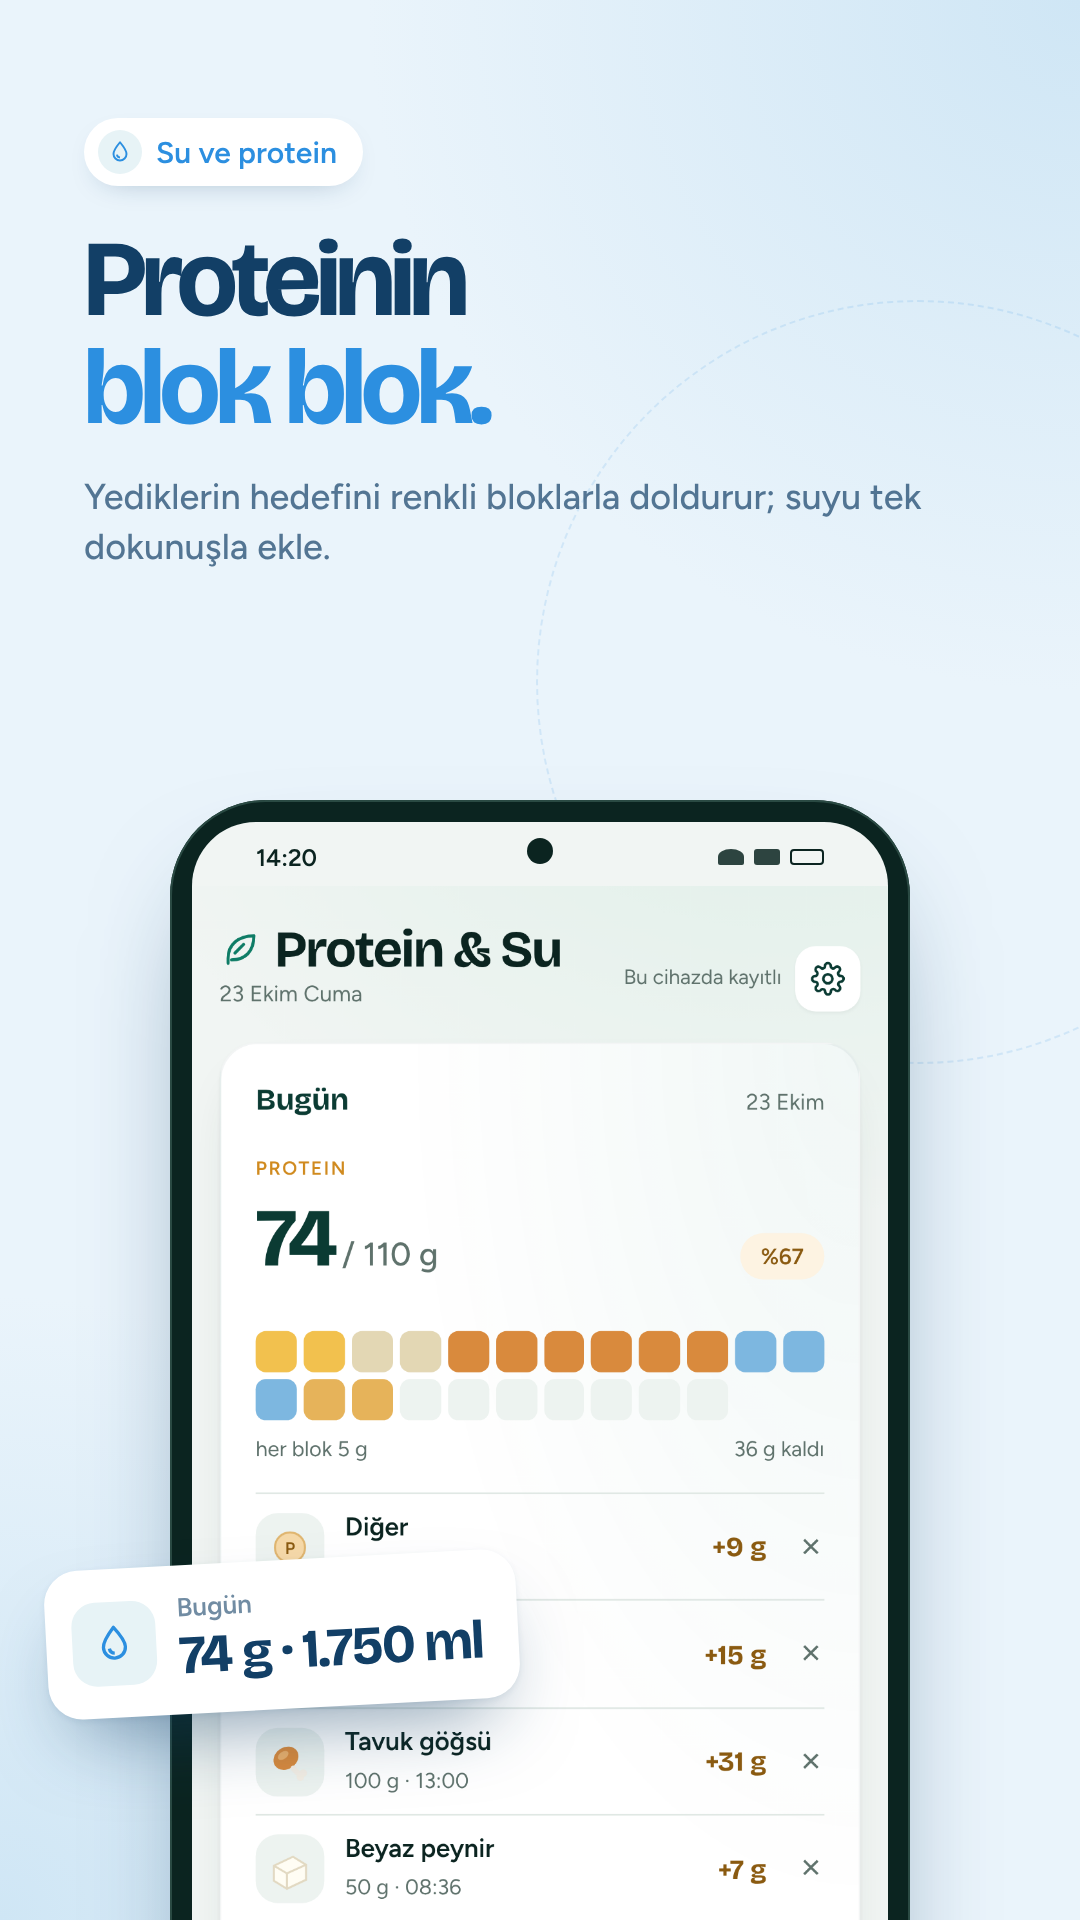
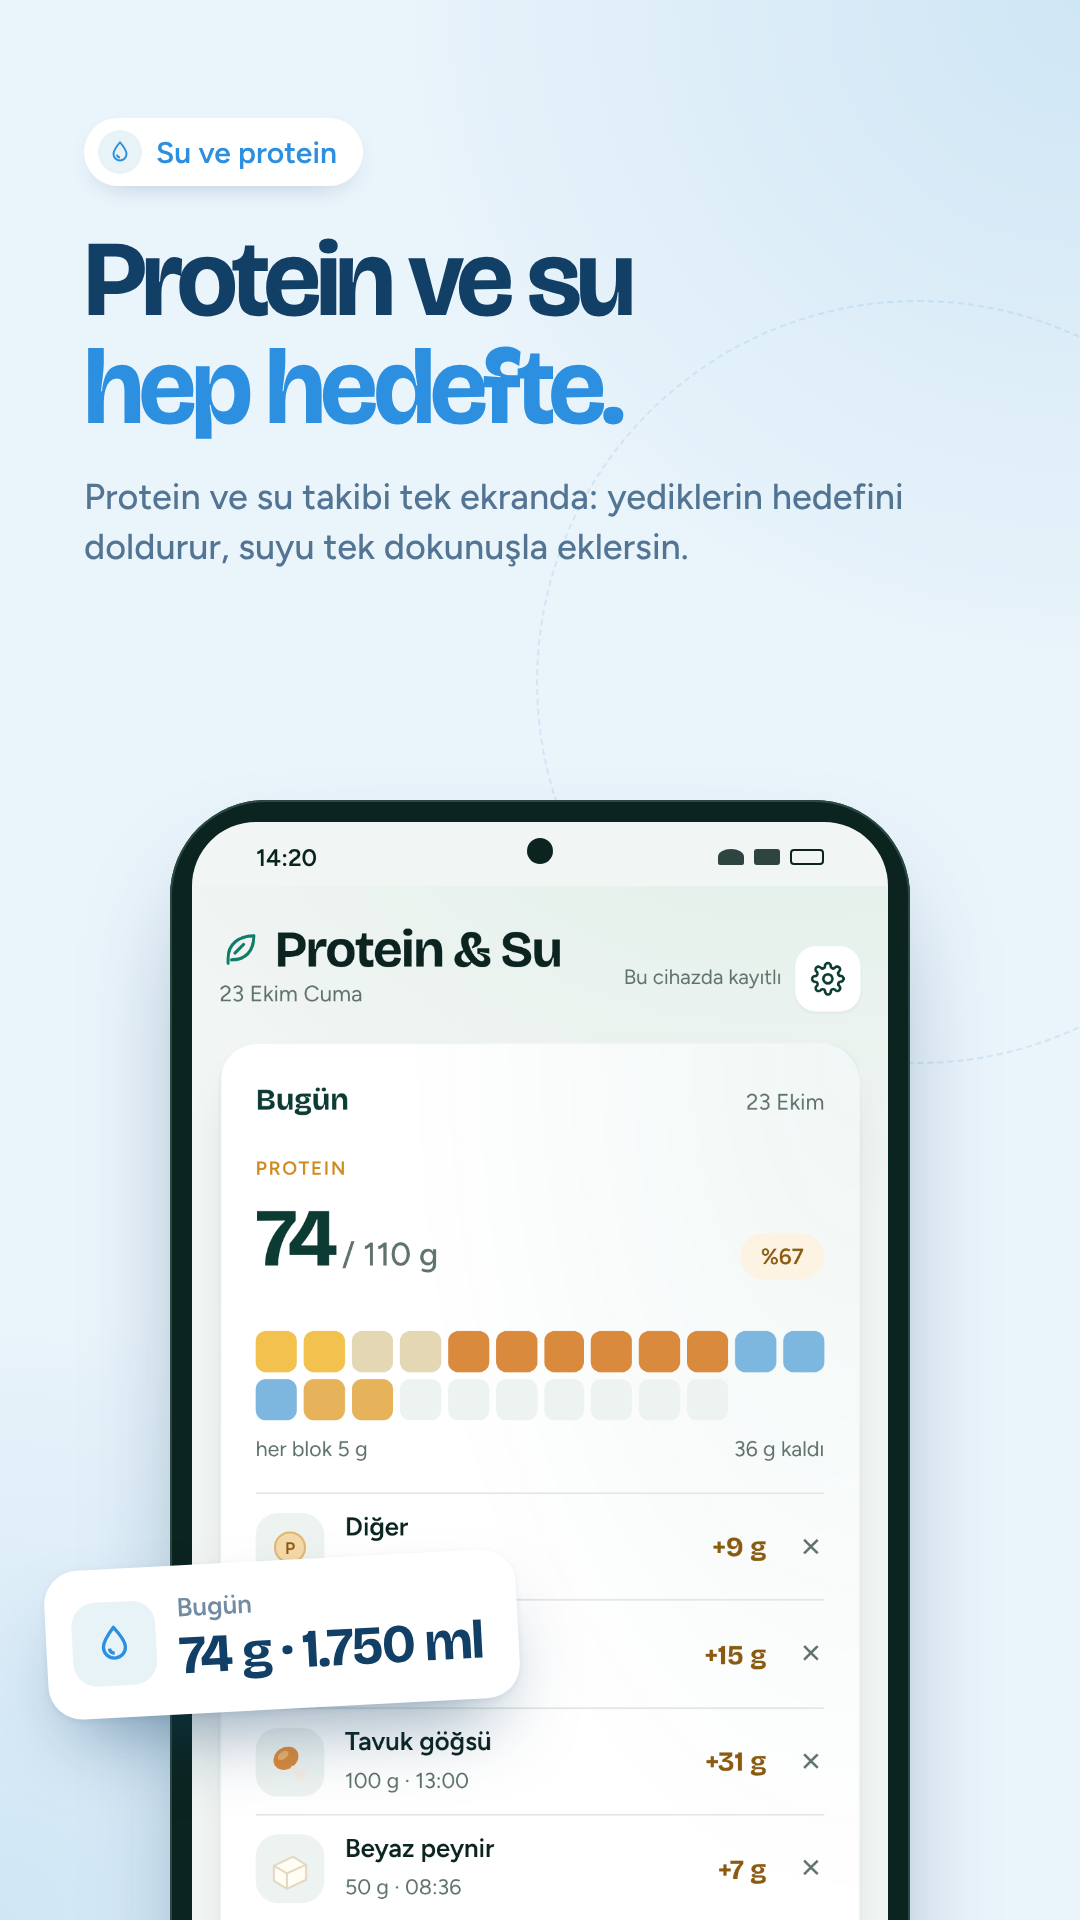
Tanıtım: protein kartı başlığı 'Protein ve su hep hedefte'
Claude-Session: https://claude.ai/code/session_01ERT3WxHgY3bECbR2LgZad1

Changed region(s): [[0.0611, 0.125, 0.8556, 0.3125]]

diff --git a/magaza/kaynak/tanitim-ekranlari.js b/magaza/kaynak/tanitim-ekranlari.js
@@ -38,7 +38,7 @@ const EKRANLAR = [
   { ad: '02-adim', renk: 'adim', ikon: ADIMI, etiket: 'Adım sayar', baslik: ['Her adım', 'sayılır.'], alt: 'Health Connect ile adımların ve akıllı tartın kendiliğinden gelir.', ekran: '10-adimlar.png', kart: ['Bu hafta ortalama', '8.240 adım'], kartYer: 'sag', kartTop: 1690 },
   { ad: '03-igne', renk: 'igne', ikon: ikon('igne'), etiket: 'İğne takibi', baslik: ['Haftanı', 'tanı.'], alt: 'Döngünün hangi evresinde olduğunu ve sıradaki iğneni hep bil.', ekran: '02-dongu.png', kart: ['Bugünkü evre', 'Zirve · 4. gün'], kartYer: 'sol' },
   { ad: '04-rozet', renk: 'rozet', ikon: ROZET, etiket: 'Başarılar', baslik: ['Her eşik', 'bir rozet.'], alt: 'Ara hedeflere ulaştıkça rozet kazan, motivasyonun hep diri kalsın.', ekran: '04-rozetler.png', kart: ['Yeni rozet', '%5 vücut ağırlığı'], kartYer: 'sag' },
-  { ad: '05-protein-su', renk: 'su', ikon: ikon('besin'), etiket: 'Su ve protein', baslik: ['Proteinin', 'blok blok.'], alt: 'Yediklerin hedefini renkli bloklarla doldurur; suyu tek dokunuşla ekle.', ekran: '07-protein-su.png', kart: ['Bugün', '74 g · 1.750 ml'], kartYer: 'sol' },
+  { ad: '05-protein-su', renk: 'su', ikon: ikon('besin'), etiket: 'Su ve protein', baslik: ['Protein ve su', 'hep hedefte.'], alt: 'Protein ve su takibi tek ekranda: yediklerin hedefini doldurur, suyu tek dokunuşla eklersin.', ekran: '07-protein-su.png', kart: ['Bugün', '74 g · 1.750 ml'], kartYer: 'sol' },
   { ad: '06-takviye', renk: 'takviye', ikon: ikon('takviye'), etiket: 'Takviye takibi', baslik: ['Takviyelerin', 'tek dokunuşta.'], alt: 'Sabah, akşam ve gece programını kur; aldıklarını işaretle.', ekran: '08-takviyeler.png', kart: ['Bugün alındı', '2 / 4'], kartYer: 'sag' },
   { ad: '09-yan-etki', renk: 'igne', ikon: NABIZ, etiket: 'Yan etki günlüğü', baslik: ['Yan etkilerini', 'öngör.'], alt: 'Belirtilerini kaydet; iğneden sonraki hangi günlerde yoğunlaştığını gör.', ekran: '11-yan-etkiler.png', kart: ['En yoğun gün', 'İğneden 1 gün sonra'], kartYer: 'sag', kartTop: 1760 },
   { ad: '10-rapor', renk: 'kilo', ikon: RAPOR, etiket: 'Ölçüler ve rapor', baslik: ['Kontrole', 'hazır git.'], alt: 'Ölçülerini kaydet; kilo, doz ve yan etkilerini tek PDF raporla doktoruna göster.', ekran: '13-olculer.png', kart: ['Bel çevresi', '−9 cm'], kartYer: 'sol' },

diff --git a/magaza/kaynak/video/sahne.html b/magaza/kaynak/video/sahne.html
@@ -107,7 +107,7 @@ const S = [
   { d: 4.0, r: 'igne', ic: 'nabiz', et: 'Yan etki günlüğü', h: ['Yan etkilerini', 'öngör.'], sub: 'Belirtilerini kaydet; iğneden sonraki hangi günlerde yoğunlaştığını gör.', img: '11-yan-etkiler.png', call: ['En yoğun gün', 'İğneden 1 gün sonra'], cx: 'sol' },
   { d: 4.0, r: 'kilo', ic: 'rapor', et: 'Ölçüler ve rapor', h: ['Kontrole', 'hazır git.'], sub: 'Ölçülerini kaydet; kilo, doz ve yan etkilerini tek PDF raporla doktoruna göster.', img: '13-olculer.png', call: ['Bel çevresi', -9, ' cm', 0], cx: 'sol' },
   { d: 4.0, r: 'rozet', ic: 'rozet', et: 'Başarılar', h: ['Her eşik', 'bir rozet.'], sub: 'Ara hedeflere ulaştıkça rozet kazan, motivasyonun hep diri kalsın.', img: '04-rozetler.png', call: ['Yeni rozet', '%5 vücut'], cx: 'sol' },
-  { d: 4.0, r: 'su', ic: 'su', et: 'Su ve protein', h: ['Proteinin', 'blok blok.'], sub: 'Yediklerin hedefini renkli bloklarla doldurur; suyu tek dokunuşla ekle.', img: '07-protein-su.png', call: ['Bugün su', 1750, ' ml', 0], cx: 'sol' },
+  { d: 4.0, r: 'su', ic: 'su', et: 'Su ve protein', h: ['Protein ve su', 'hep hedefte.'], sub: 'Protein ve su takibi tek ekranda: yediklerin hedefini doldurur, suyu tek dokunuşla eklersin.', img: '07-protein-su.png', call: ['Bugün su', 1750, ' ml', 0], cx: 'sol' },
   { d: 4.0, r: 'takviye', ic: 'takviye', et: 'Takviye takibi', h: ['Takviyelerin', 'tek dokunuşta.'], sub: 'Sabah, akşam ve gece programını kur; aldıklarını işaretle.', img: '08-takviyeler.png', call: ['Bugün alındı', '2 / 4'], cx: 'sol' },
   { tip: 'bildirim', d: 4.8, r: 'bildirim', ic: 'zil', et: 'Hatırlatıcılar', h: ['Hiçbir şeyi', 'unutma.'], sub: 'İğne günü, takviyeler, su ve tartı; hepsi zamanında, internetsiz.' },
   { tip: 'gizlilik', d: 4.6, r: 'kilo', ic: 'kilit', et: 'Gizlilik', h: ['Verilerin', 'sende kalır.'], sub: 'Hafif senin kişisel defterin; kimse okumaz, kimseyle paylaşılmaz.' },
